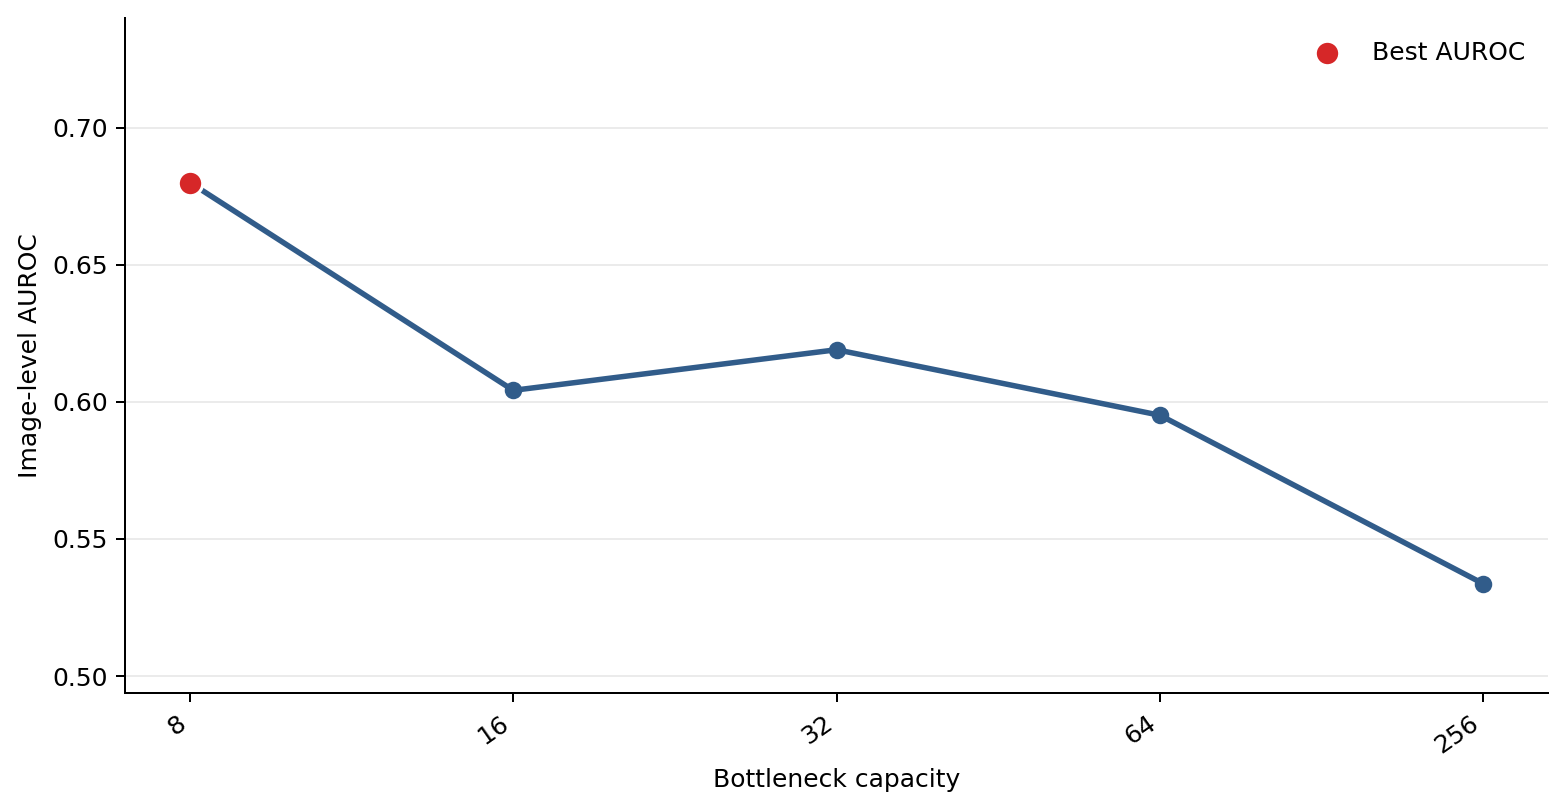
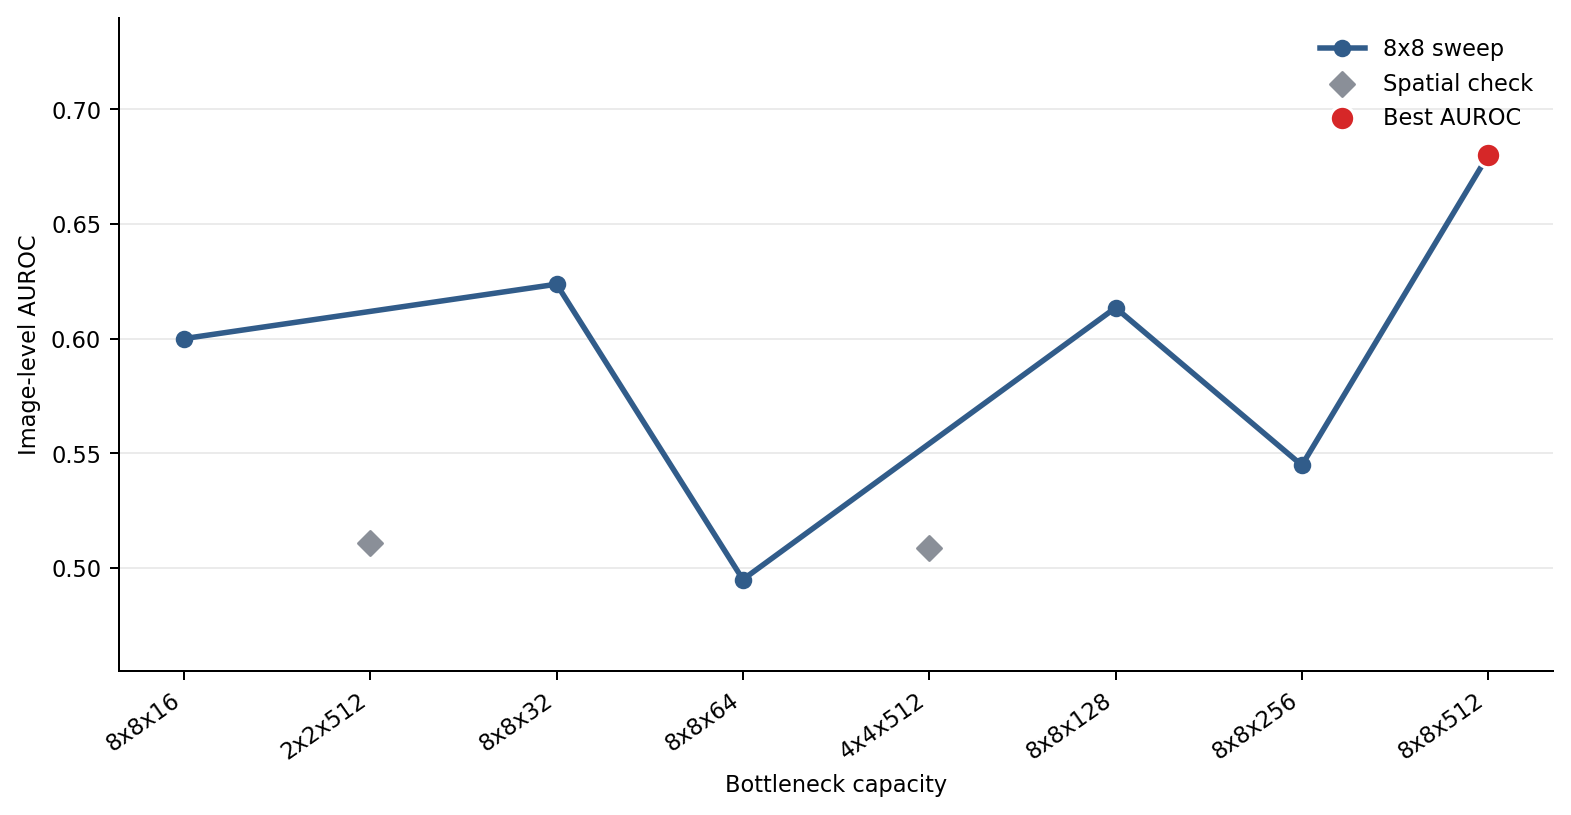
presentazione

diff --git a/scripts/plot_fair_cae_bottleneck_ablation.py b/scripts/plot_fair_cae_bottleneck_ablation.py
@@ -14,30 +14,53 @@ def main():
         payload = json.load(f)
 
     rows = payload["results"]
-    best_idx = max(range(len(rows)), key=lambda idx: rows[idx]["auroc"])
-    x = list(range(len(rows)))
-    y = [row["auroc"] for row in rows]
-    labels = [str(row["bottleneck_channels"]) for row in rows]
+    spatial_rows = payload.get("spatial_checks", [])
+    all_rows = sorted(
+        [
+            *({"kind": "main", **row} for row in rows),
+            *({"kind": "spatial", **row} for row in spatial_rows),
+        ],
+        key=lambda row: (row["latent_activations"], row["bottleneck_shape"]),
+    )
+
+    main_x = [idx for idx, row in enumerate(all_rows) if row["kind"] == "main"]
+    main_y = [all_rows[idx]["auroc"] for idx in main_x]
+    spatial_x = [idx for idx, row in enumerate(all_rows) if row["kind"] == "spatial"]
+    spatial_y = [all_rows[idx]["auroc"] for idx in spatial_x]
+    labels = [row["bottleneck_shape"] for row in all_rows]
+    best_idx = max(main_x, key=lambda idx: all_rows[idx]["auroc"])
+    best_y = all_rows[best_idx]["auroc"]
 
     plt.rcParams.update(
         {
-            "font.size": 10,
+            "font.size": 9,
             "axes.spines.top": False,
             "axes.spines.right": False,
         }
     )
     fig, ax = plt.subplots(figsize=(8.8, 4.6), dpi=180)
     ax.plot(
-        x,
-        y,
+        main_x,
+        main_y,
         color="#315c8a",
         linewidth=2.2,
         marker="o",
         markersize=6,
+        label="8x8 sweep",
     )
+    if spatial_rows:
+        ax.scatter(
+            spatial_x,
+            spatial_y,
+            color="#8a8f98",
+            marker="D",
+            s=48,
+            label="Spatial check",
+            zorder=3,
+        )
     ax.scatter(
         [best_idx],
-        [y[best_idx]],
+        [best_y],
         color="#d62728",
         edgecolor="white",
         linewidth=1.2,
@@ -46,11 +69,12 @@ def main():
         label="Best AUROC",
     )
 
-    ax.set_xticks(x)
+    ax.set_xticks(list(range(len(all_rows))))
     ax.set_xticklabels(labels, rotation=35, ha="right")
     ax.set_xlabel("Bottleneck capacity")
     ax.set_ylabel("Image-level AUROC")
-    ax.set_ylim(max(0.45, min(y) - 0.04), min(1.0, max(y) + 0.06))
+    all_y = main_y + spatial_y
+    ax.set_ylim(max(0.45, min(all_y) - 0.04), min(1.0, max(all_y) + 0.06))
     ax.grid(axis="y", alpha=0.25)
     ax.legend(frameon=False, loc="best")
     fig.tight_layout()

diff --git a/slides/main.tex b/slides/main.tex
@@ -268,8 +268,8 @@ Gio Formichella}
         \includegraphics[width=0.86\textwidth]{imgs/cae_bottleneck_auroc.png}
     \end{figure}
     \begin{itemize}\footnotesize
-        \item Smaller bottlenecks force reconstruction of normal structure only.
-        \item More capacity can reconstruct defects too, reducing anomaly contrast.
+        \item The selected $8 \times 8 \times 512$ bottleneck gives the best ranking.
+        \item Severe spatial compression loses useful texture structure.
     \end{itemize}
 \end{frame}
 